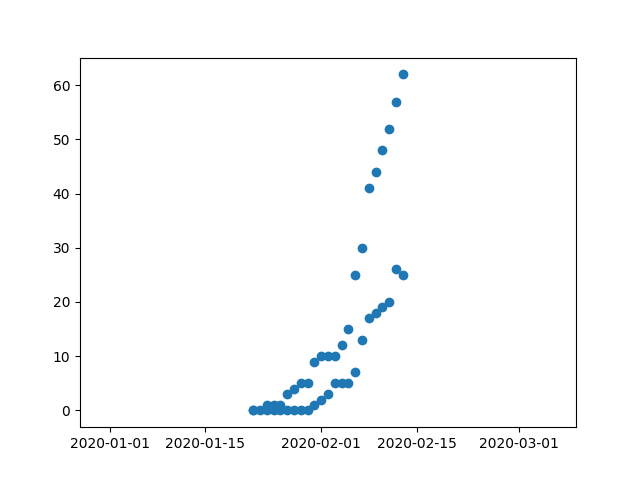
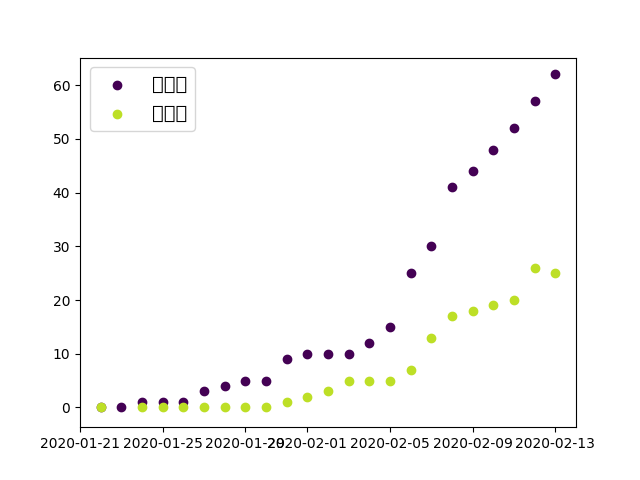
updated with basic plot

diff --git a/wendy_data_deal/nCoV_data.py b/wendy_data_deal/nCoV_data.py
@@ -8,7 +8,14 @@ from datetime import datetime
 import pytz
 
 import pandas as pd
+import numpy as np
 import matplotlib.pyplot as plt
+
+import matplotlib.cm as cm
+import matplotlib.colors as colors
+from matplotlib import font_manager
+
+
 
 # reference link: 
 # http://cuihuan.net/wuhan/nCoV.html
@@ -242,7 +249,38 @@ def _micro_insert_data(one_line_value, tbl_name):
 def _int_2_time(data): 
     your_dt = datetime.fromtimestamp(int(data)/1000)
     return your_dt
-    
+
+def plot_by_diff_level(df, level_col, fig_name = 'test.png'): 
+    '''
+    df: dataframe
+    level_col: col name 
+    '''
+
+    fontP = font_manager.FontProperties()
+    fontP.set_family('SimHei')
+    fontP.set_size(14)
+
+    levels = df[level_col].unique() # different level in similar list format[0 1]
+    colormap = cm.viridis
+    colorlist = [colors.rgb2hex(colormap(i)) for i in np.linspace(0, .9, len(levels))]
+    fig = plt.figure()
+    ax1 = fig.add_subplot(111)
+    for i, v in enumerate(levels): 
+        temp_df = df.loc[df[level_col] == v, ]
+        temp_label = temp_df[prv].iloc[0]
+        print (temp_label)
+        
+        ax1.scatter(x = temp_df[dt_time], y = temp_df[cured_count], c = colorlist[i], label = temp_label)
+        # print (i)
+        # print (temp_df[prv][0])
+
+    plt.xlim(df[dt_time].min() - pd.Timedelta(days=1), df[dt_time].max()+pd.Timedelta(days=1))
+
+    plt.legend(loc = 'upper left', prop = fontP)
+    plt.savefig('test.png')
+ 
+
+
 if __name__ == '__main__': 
     # # ==============================
     # # province name part
@@ -308,8 +346,7 @@ if __name__ == '__main__':
     df_short = df_short.sort_values([prv_id, upt_time])
     df_short = df_short.drop_duplicates([prv_id, dt_time], keep='last')
 
-    plt.scatter(df_short[dt_time], df_short[cured_count])
-    plt.savefig('test.png')
- 
+    plot_by_diff_level(df_short, prv_id)
+    
     # sort by pro_id and time -> drop data and only remain the last data in that date
 
